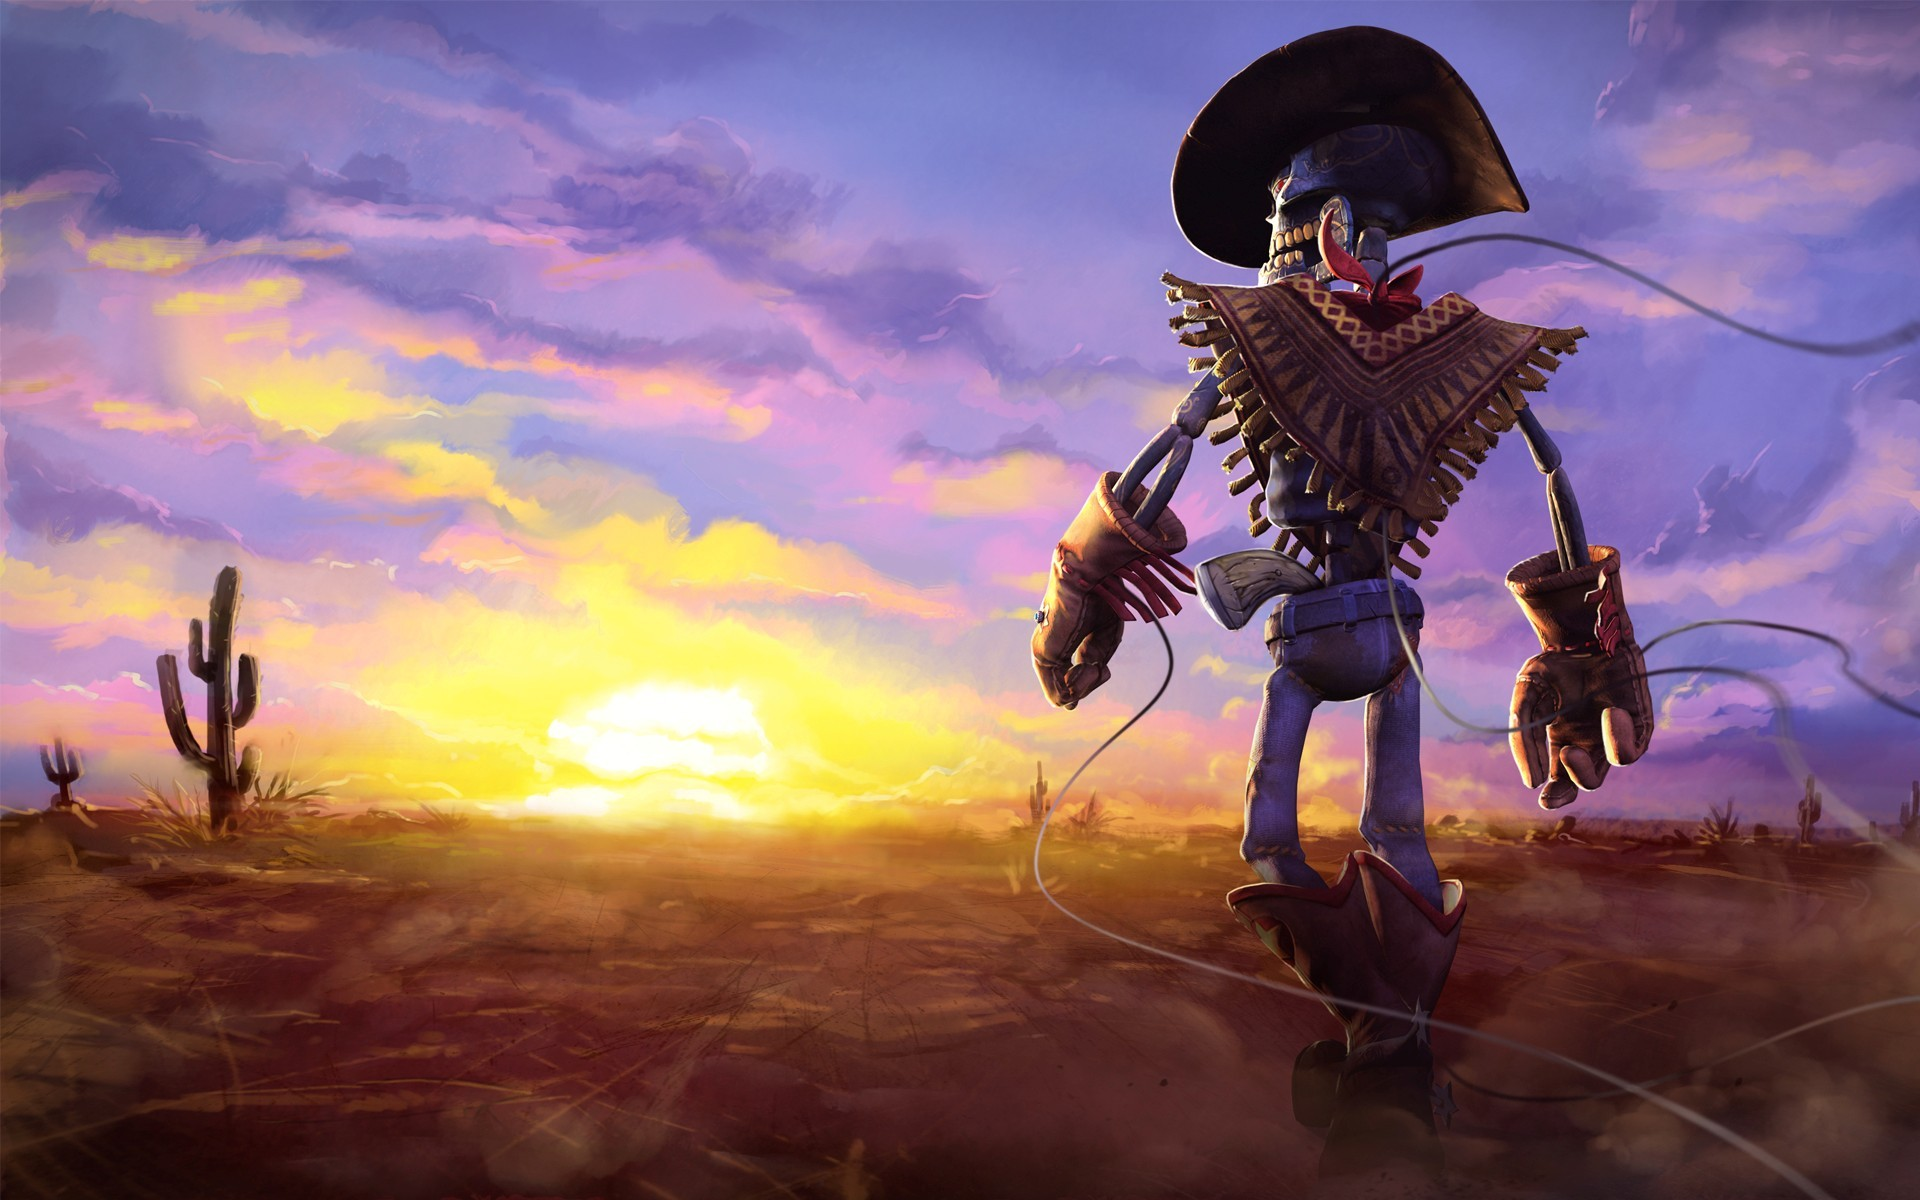
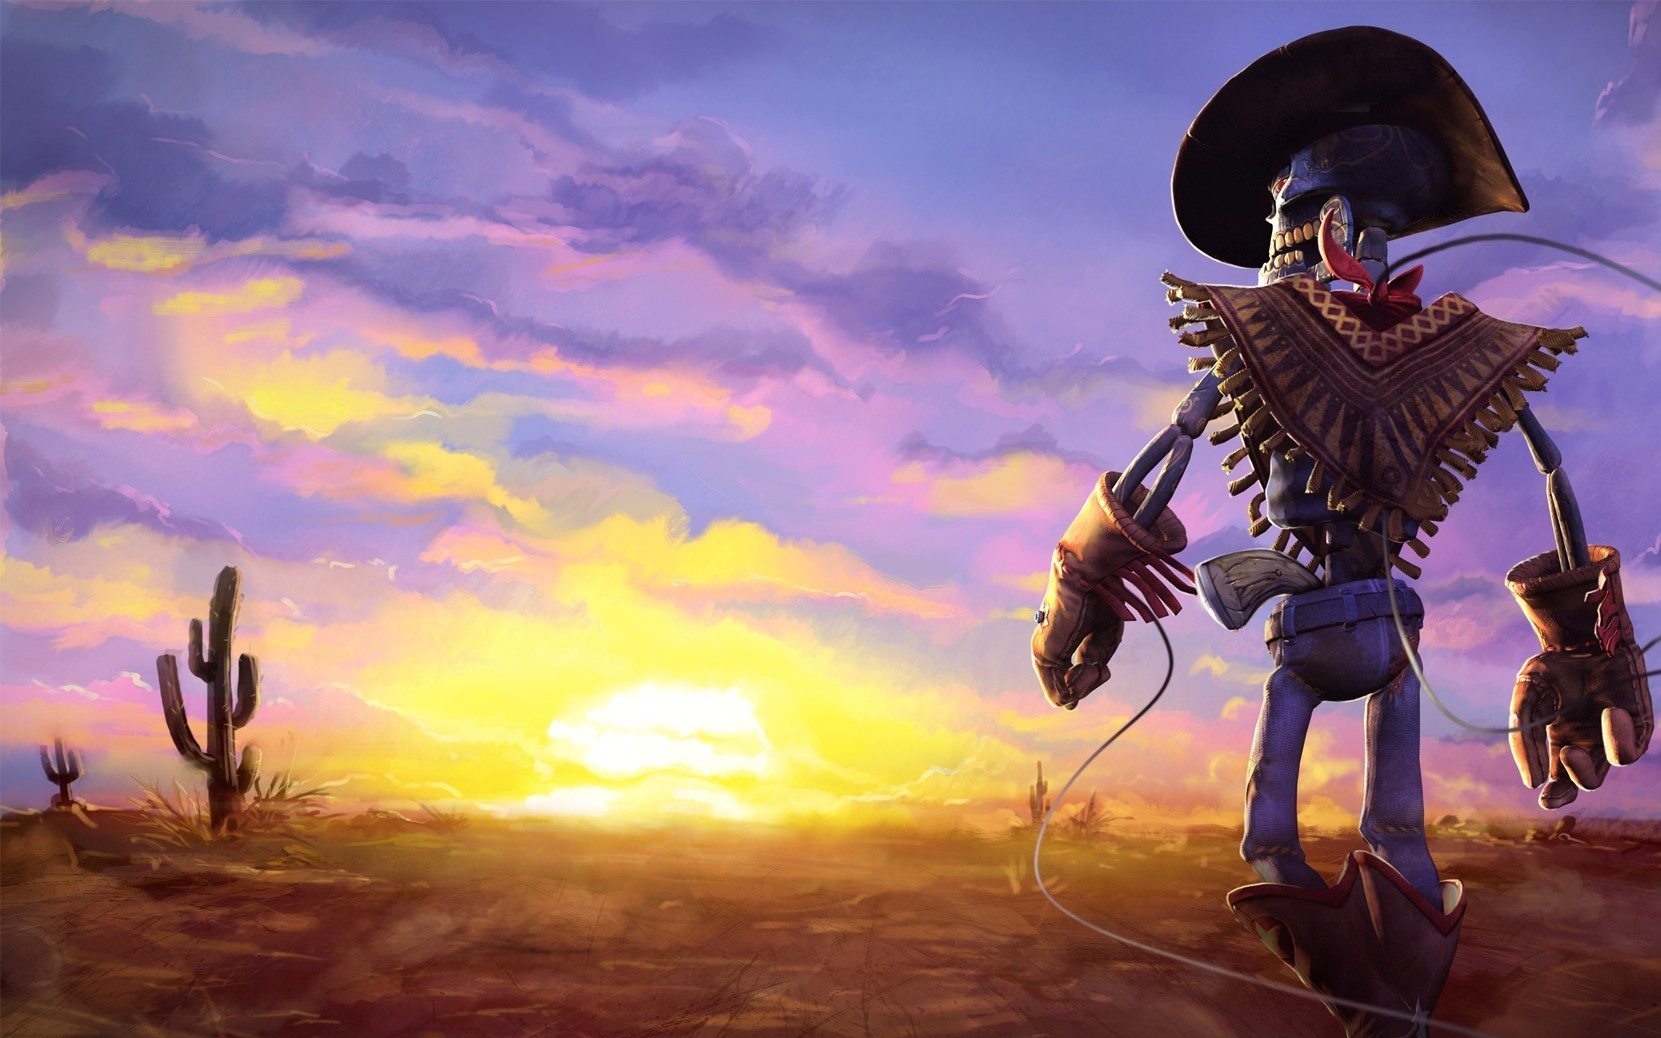
提交

diff --git a/index.html b/index.html
@@ -57,7 +57,7 @@
     </form>
     <br />
     <div class="setcenter">
-        <img src="source/0.jpg" />
+        <img src="source/0.jpg" height="500"/>
     </div>
 </body>
 </html>
